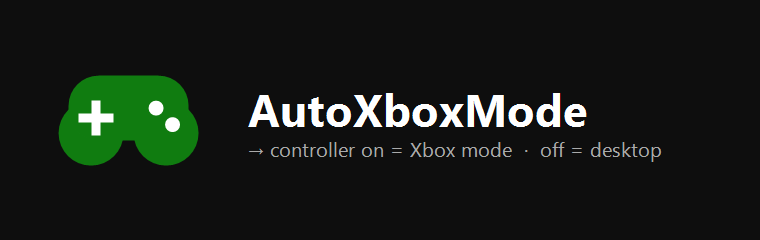
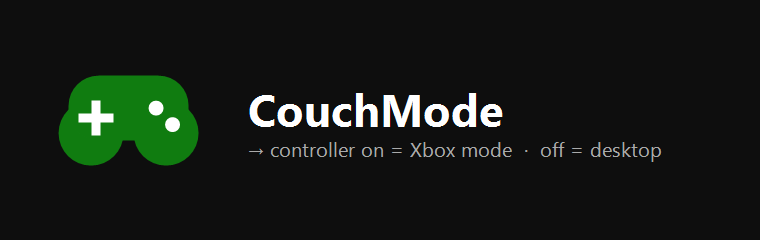
Rebrand AutoXboxMode -> CouchMode (free build, main)
Rename product, namespace, metadata, %AppData% folder, exe/icon, repo links and
docs to CouchMode; source is now src/CouchMode.cs. Windows-feature references
("Xbox mode" / full screen experience) and window-title detection are kept.
Bump to 1.3.6-beta.

Changed region(s): [[0.3026, 0.3792, 0.7868, 0.5542]]

diff --git a/README.md b/README.md
@@ -1,19 +1,19 @@
-# AutoXboxMode
+# CouchMode
 
 **Automatically enable Windows 11 Xbox mode (the full screen experience) when an Xbox controller connects, and turn it off when the controller disconnects.**
 
-![AutoXboxMode](assets/banner.png)
+![CouchMode](assets/banner.png)
 
-AutoXboxMode is a tiny system tray utility for Windows 11. The new
+CouchMode is a tiny system tray utility for Windows 11. The new
 **Xbox full screen experience (FSE)** turns your PC into a console-like, big-screen
-gaming interface. AutoXboxMode makes it automatic: power on your Xbox controller and
+gaming interface. CouchMode makes it automatic: power on your Xbox controller and
 your PC enters Xbox mode; turn the controller off and it returns to the desktop.
 
 No more reaching for the mouse. Let the controller drive the experience.
 
 Windows 11 can already enter Xbox mode at startup (mainly on handhelds) or with the
 `Win+F11` shortcut, but as of mid-2026 there is no built-in option to switch
-automatically based on your controller's power state. AutoXboxMode fills that gap.
+automatically based on your controller's power state. CouchMode fills that gap.
 If Microsoft adds it natively one day, even better.
 
 ---
@@ -52,7 +52,7 @@ If Microsoft adds it natively one day, even better.
 
 ## Installation
 
-1. Download `AutoXboxMode.exe` from the [latest release](../../releases/latest).
+1. Download `CouchMode.exe` from the [latest release](../../releases/latest).
 2. Run it. An icon appears in the system tray.
 3. (Optional) Open **Settings…** from the tray menu and enable **Start automatically with Windows**.
 
@@ -61,7 +61,7 @@ If Microsoft adds it natively one day, even better.
 
 ## Usage
 
-Once running, AutoXboxMode works automatically:
+Once running, CouchMode works automatically:
 
 | Action | Result |
 | --- | --- |
@@ -82,10 +82,10 @@ Right-click the tray icon for options:
 | --- | --- | --- |
 | Enter Xbox mode when a controller connects | On | Switch to Xbox mode on controller power-on. |
 | Exit Xbox mode when all controllers disconnect | On | Return to desktop when the last controller powers off. |
-| Start automatically with Windows | Off | Launch AutoXboxMode at sign-in. |
+| Start automatically with Windows | Off | Launch CouchMode at sign-in. |
 | Debug logging | Off | Write a verbose activity log for troubleshooting. |
 
-Settings and logs are stored in `%AppData%\AutoXboxMode\`.
+Settings and logs are stored in `%AppData%\CouchMode\`.
 
 ## Screenshots
 
@@ -118,9 +118,9 @@ It helps to know which version of Xbox mode your device has:
   (feature flags plus spoofing the device form factor and panel size), which is
   unofficial and can be unstable on multi-monitor or docked setups.
 
-AutoXboxMode works with either level, because it only sends the official `Win+F11`
+CouchMode works with either level, because it only sends the official `Win+F11`
 toggle that Windows itself uses. If you have the full handheld-style mode, the
-restart prompt still appears and AutoXboxMode leaves that choice to you. Whether to
+restart prompt still appears and CouchMode leaves that choice to you. Whether to
 force the full mode on a desktop is entirely your decision; this project does not
 perform or recommend any device spoofing.
 
@@ -131,16 +131,16 @@ Windows 11 machine.
 
 ```powershell
 .\build.ps1
-# -> build\AutoXboxMode.exe
+# -> build\CouchMode.exe
 ```
 
 ## Privacy & security
 
-- **Fully offline.** AutoXboxMode makes no network connections: no telemetry,
+- **Fully offline.** CouchMode makes no network connections: no telemetry,
   no analytics, no data collection of any kind.
 - **No admin rights.** It only writes its own startup entry under
   `HKCU\…\Run` (when you enable *Start with Windows*) and its config/log under
-  `%AppData%\AutoXboxMode\`.
+  `%AppData%\CouchMode\`.
 - **Open source.** You can read every line, or build the executable yourself
   with `build.ps1`.
 - **Unsigned binary.** The released `.exe` is not code-signed, so SmartScreen may
@@ -156,7 +156,7 @@ Windows 11 machine.
   the size and position of any window titled "Xbox". It does **not** record other
   window titles (they are redacted), file paths, usernames, account data, or device
   serial numbers, and it is capped in size. The log lives at
-  `%AppData%\AutoXboxMode\app.log`; you can open and review it before sharing.
+  `%AppData%\CouchMode\app.log`; you can open and review it before sharing.
 
 ## Roadmap
 
@@ -166,14 +166,14 @@ Windows 11 machine.
 
 ## Support
 
-AutoXboxMode is free and open source. If it makes your gaming setup nicer, you can
+CouchMode is free and open source. If it makes your gaming setup nicer, you can
 support development:
 
 - [GitHub Sponsors](https://github.com/sponsors/EzerchE)
 
 ## Disclaimer
 
-AutoXboxMode is provided **"as is", without warranty of any kind**. It only sends
+CouchMode is provided **"as is", without warranty of any kind**. It only sends
 the standard `Win+F11` shortcut and toggles its own startup entry, and it does not
 modify system files. That said, you use it at your own risk: the author is not
 liable for any damage, data loss, or other issues arising from its use (see the

diff --git a/CHANGELOG.md b/CHANGELOG.md
@@ -4,6 +4,15 @@ All notable changes to this project are documented here.
 The format is based on [Keep a Changelog](https://keepachangelog.com/en/1.1.0/),
 and this project adheres to [Semantic Versioning](https://semver.org/spec/v2.0.0.html).
 
+## [1.3.6-beta] - 2026-05-29
+
+### Changed
+- **Renamed the project to CouchMode** (formerly AutoXboxMode). Config and log now
+  live in `%AppData%\CouchMode\` and the executable is `CouchMode.exe`. The Windows
+  feature it controls is still called "Xbox mode" / the full screen experience. If
+  you used an earlier version, re-apply your settings (the old
+  `%AppData%\AutoXboxMode\` folder is left untouched).
+
 ## [1.3.5-beta] - 2026-05-23
 
 ### Changed
@@ -108,4 +117,4 @@ and this project adheres to [Semantic Versioning](https://semver.org/spec/v2.0.0
 - System tray interface with pause/resume.
 - Settings dialog: enable-on-connect, disable-on-disconnect, start with Windows,
   and configurable poll interval.
-- Activity logging to `%AppData%\AutoXboxMode\app.log`.
+- Activity logging to `%AppData%\CouchMode\app.log`.

diff --git a/SIGNING.md b/SIGNING.md
@@ -2,7 +2,7 @@
 
 Release builds are signed for free through the [SignPath Foundation](https://signpath.org)
 open-source program. Signing happens automatically in GitHub Actions
-(`.github/workflows/release.yml`): the workflow builds `AutoXboxMode.exe`, submits
+(`.github/workflows/release.yml`): the workflow builds `CouchMode.exe`, submits
 it to SignPath, and publishes the signed binary to the GitHub Release.
 
 ## One-time setup
@@ -12,8 +12,8 @@ it to SignPath, and publishes the signed binary to the GitHub Release.
    - Submit this repository for review. Approval is done by SignPath staff.
 
 2. **Configure the project in SignPath**
-   - Create a **project** (suggested slug: `AutoXboxMode`).
-   - Add an **artifact configuration** that points at `AutoXboxMode.exe`
+   - Create a **project** (suggested slug: `CouchMode`).
+   - Add an **artifact configuration** that points at `CouchMode.exe`
      (suggested slug: `exe`).
    - Create a **signing policy** for releases (suggested slug: `release-signing`).
    - Connect this GitHub repository as a trusted build origin and install the
@@ -32,13 +32,13 @@ it to SignPath, and publishes the signed binary to the GitHub Release.
 ## Cutting a signed release
 
 ```bash
-# bump the version in src/AutoXboxMode.cs and app.manifest first, then:
+# bump the version in src/CouchMode.cs and app.manifest first, then:
 git tag v1.3.3
 git push origin v1.3.3
 ```
 
 The workflow runs on the tag, signs the binary, and creates the release with the
-signed `AutoXboxMode.exe` plus a `.sha256` checksum.
+signed `CouchMode.exe` plus a `.sha256` checksum.
 
 ## References
 